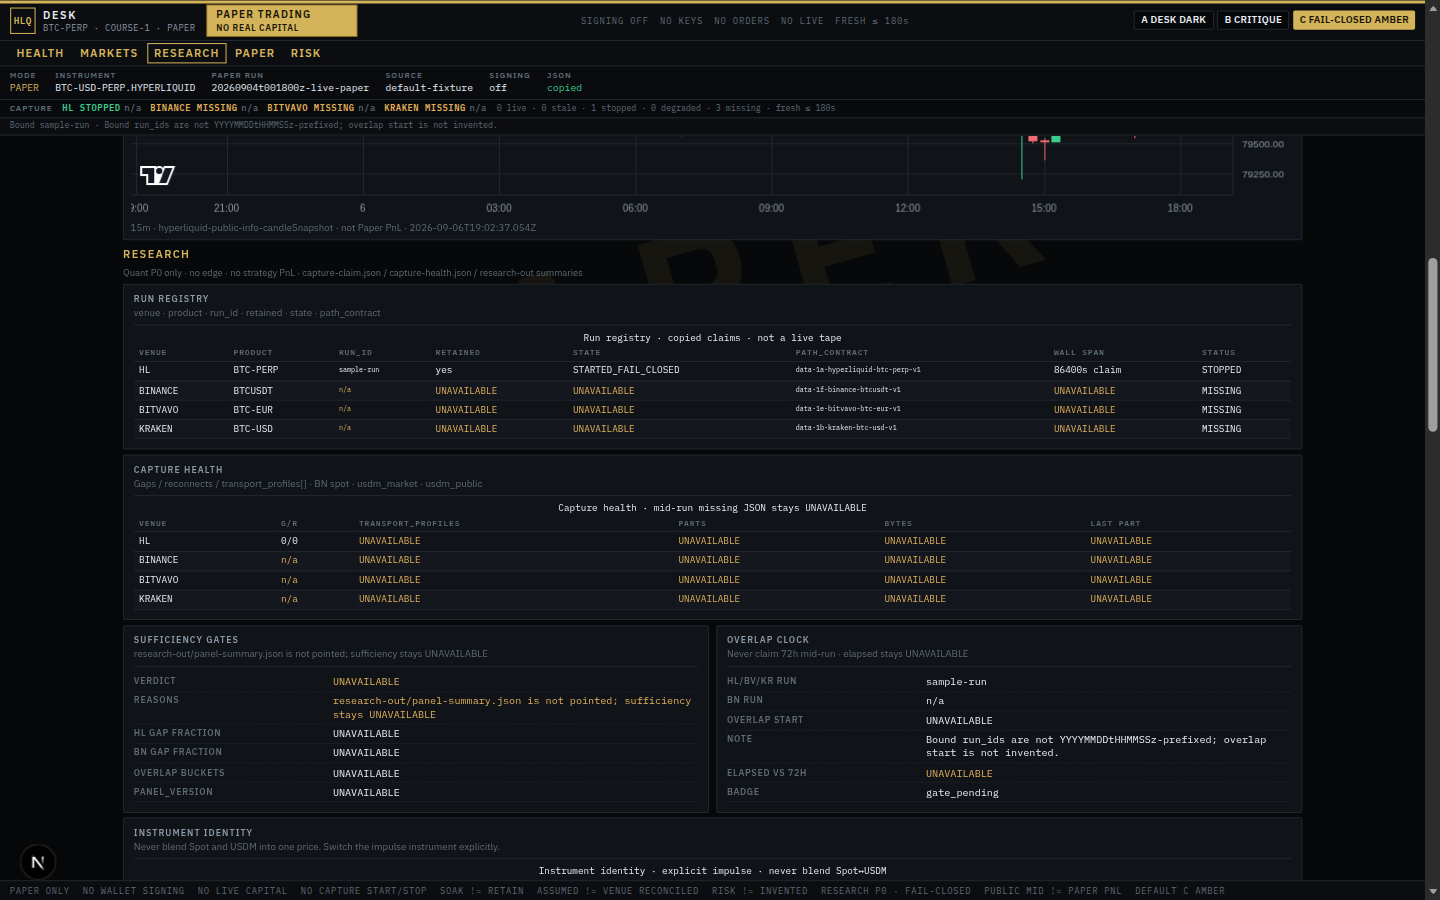
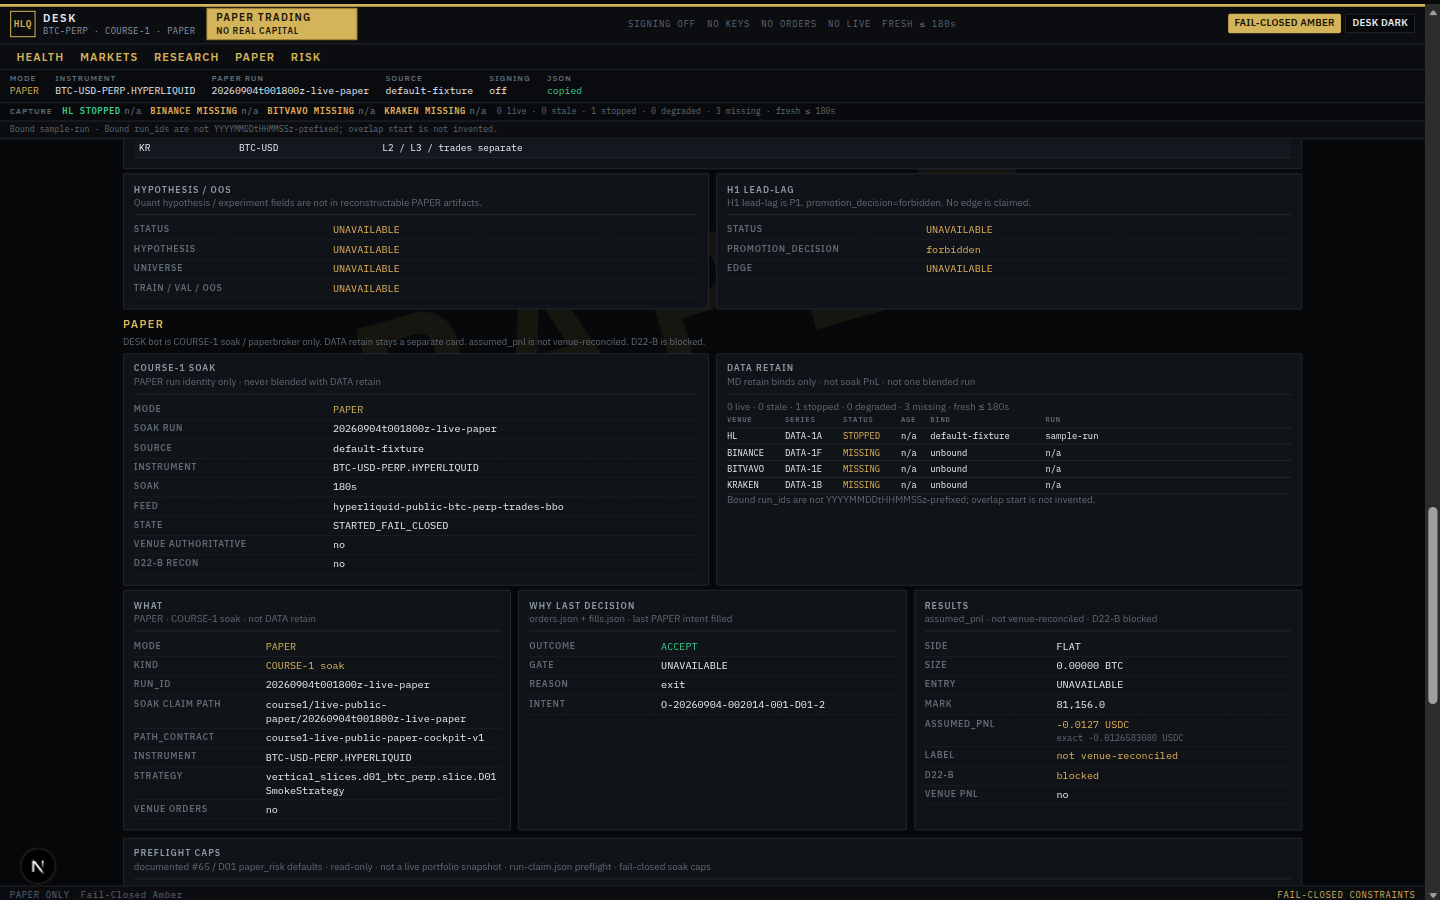
docs(cockpit): refresh PR #66 Design shots for the six must-fixes
Reshoot Fail-Closed Amber, Desk Dark, Research, MARKETS public-mid
label, DESK assumed_pnl + REJECT tape, and iPhone sticky chrome with
tucked footer. Critique B shots stay historical / docs-only.

diff --git a/docs/design-previews/pr-66/README.md b/docs/design-previews/pr-66/README.md
@@ -5,37 +5,38 @@ They are not product claims, not LIVE evidence, and not profitability evidence.
 
 Canonical path for this PR: `docs/design-previews/pr-66/`
 
-C = default Fail-Closed Amber. A = Desk Dark. B = critique-only.
-
-Research Lab sparse theme is later, not this PR.
+Default chrome is **Fail-Closed Amber**. Optional operator toggle is **Desk Dark**.
+Critique variants are not in prod UI; older B shots below are historical only.
 
 ## Visual variants
 
-| Id | Intent | Default? |
+| Id | Intent | In prod chrome? |
 |---|---|---|
-| **C** | Fail-Closed Amber — status-first shipping default | **yes** |
-| **A** | Desk Dark — optional density theme | no |
-| **B** | Critique-only — demoted, not card-marketing | no |
+| Fail-Closed Amber | status-first shipping default | **yes (default)** |
+| Desk Dark | optional density | yes (toggle) |
+| critique | Design docs only | no |
 
 ## Files
 
-### Default C + A/B
+### Chrome + themes
 
-- `design_desktop_c_fail_closed_amber.png` — desktop C viewport (Health chrome)
-- `design_desktop_c_full_page.png` — desktop C full page
-- `design_desktop_a_desk_dark.png` — desktop A Desk Dark
-- `design_desktop_b_critique.png` — desktop B critique
-- `desktop_terminal_a.png` — earlier A capture
-- `desktop_workstation_b.png` — earlier B capture
-- `design_iphone_c_chrome.png` — iPhone C sticky PAPER + freshness
-- `design_iphone_paper_zone.png` — iPhone PAPER identity cards
+- `design_desktop_c_fail_closed_amber.png` — desktop Fail-Closed Amber (Health)
+- `design_desktop_c_full_page.png` — desktop Fail-Closed Amber full page
+- `design_desktop_a_desk_dark.png` — desktop Desk Dark
+- `desktop_terminal_a.png` — Desk Dark alias
+- `design_desktop_b_critique.png` — historical critique (not prod chrome)
+- `desktop_workstation_b.png` — historical critique alias
+- `design_iphone_c_chrome.png` — iPhone sticky PAPER + freshness + tucked footer
 
-### Zones
+### Six Design must-fix areas
 
-- `design_desktop_research_p0.png` — Quant P0 Research (fail-closed UNAVAILABLE)
+- `design_desktop_research_p0.png` — Research artifact/summary cards (no live mid)
+- `design_desktop_markets.png` — MARKETS public mid ≠ research truth
 - `design_desktop_paper_zone.png` — soak vs retain identity cards
-- `desk_course1_what_why_results.png` — COURSE-1 DESK What / Why / Results
-- `desk_course1_caps_tape.png` — read-only #65 caps strip + intent tape
-- `desk_iphone_course1_what.png` — iPhone DESK What (COURSE-1 soak)
+- `desk_course1_what_why_results.png` — COURSE-1 What / Why / assumed_pnl 4dp
+- `desk_course1_caps_tape.png` — REJECT + `#65/paper_risk · risk_based_size`
+- `design_iphone_paper_zone.png` — iPhone PAPER cards + compact footer
+- `desk_iphone_course1_what.png` — iPhone DESK What
+- `desk_iphone_course1_tape.png` — iPhone tape including REJECT row
 
 Collectors were not started or stopped for these shots.
